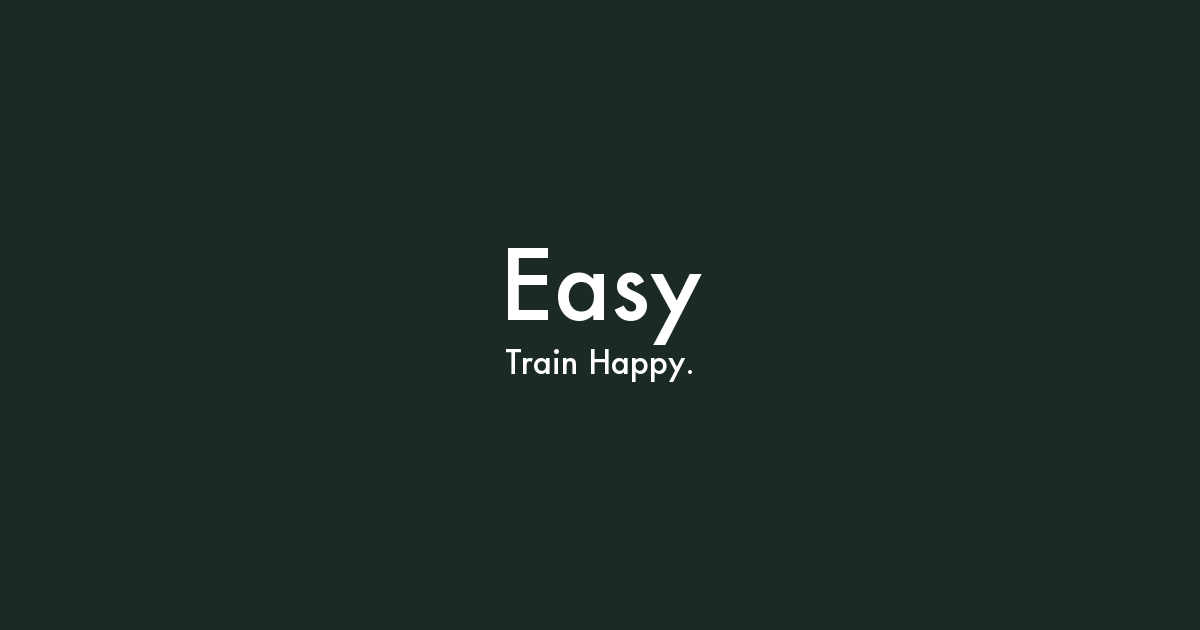
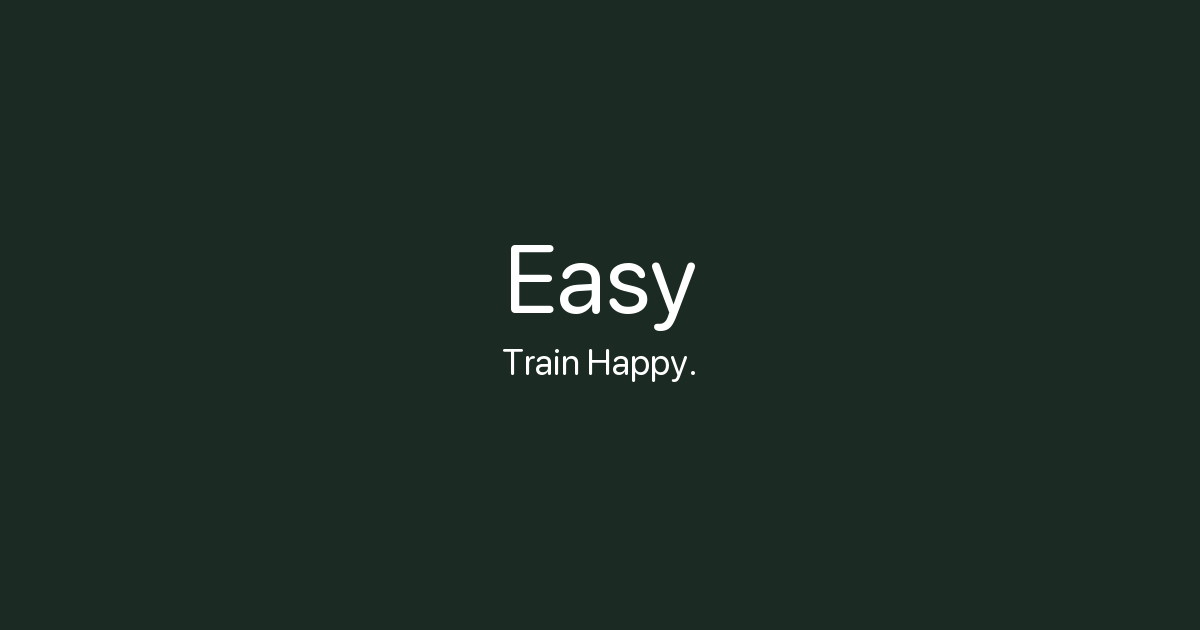
Fix OG image font to SF Rounded, optimize meta tag lengths
- Regenerated og.png with SF NS Rounded (matches iOS app)
- Title: 54 chars (optimal 50-60)
- Description: 159 chars (optimal 110-160)

Changed region(s): [[0.4008, 0.3921, 0.5858, 0.6032]]

diff --git a/index.html b/index.html
@@ -4,11 +4,11 @@
   <meta charset="UTF-8">
   <meta name="viewport" content="width=device-width, initial-scale=1.0">
   <title>Easy — Train Happy</title>
-  <meta name="description" content="AI coaching for runners. Built at altitude in Mammoth Lakes, California.">
+  <meta name="description" content="AI coaching for runners who want to train smarter, not harder. Personalized workouts, recovery insights, and race planning. Built at altitude in Mammoth Lakes.">
 
   <!-- Open Graph -->
-  <meta property="og:title" content="Easy — Train Happy">
-  <meta property="og:description" content="AI coaching for runners. Built at altitude in Mammoth Lakes, California.">
+  <meta property="og:title" content="Easy — AI Coaching for Runners Who Want to Train Happy">
+  <meta property="og:description" content="AI coaching for runners who want to train smarter, not harder. Personalized workouts, recovery insights, and race planning. Built at altitude in Mammoth Lakes.">
   <meta property="og:image" content="https://trainhappy.coach/og.png">
   <meta property="og:url" content="https://trainhappy.coach">
   <meta property="og:type" content="website">
@@ -16,8 +16,8 @@
 
   <!-- Twitter Card -->
   <meta name="twitter:card" content="summary_large_image">
-  <meta name="twitter:title" content="Easy — Train Happy">
-  <meta name="twitter:description" content="AI coaching for runners. Built at altitude in Mammoth Lakes, California.">
+  <meta name="twitter:title" content="Easy — AI Coaching for Runners Who Want to Train Happy">
+  <meta name="twitter:description" content="AI coaching for runners who want to train smarter, not harder. Personalized workouts, recovery insights, and race planning. Built at altitude in Mammoth Lakes.">
   <meta name="twitter:image" content="https://trainhappy.coach/og.png">
 
   <link rel="preconnect" href="https://fonts.googleapis.com">
